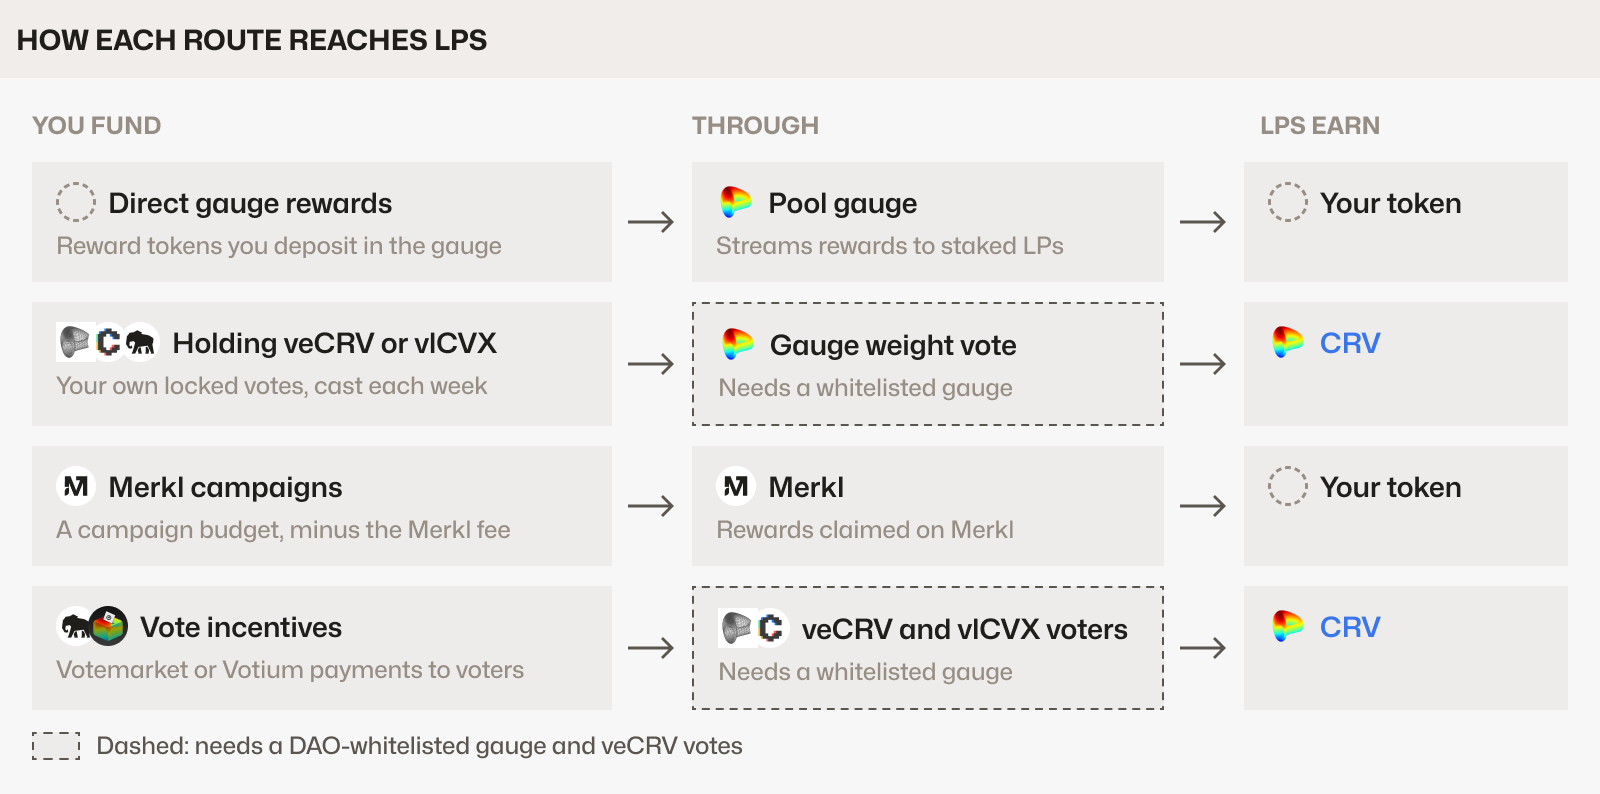
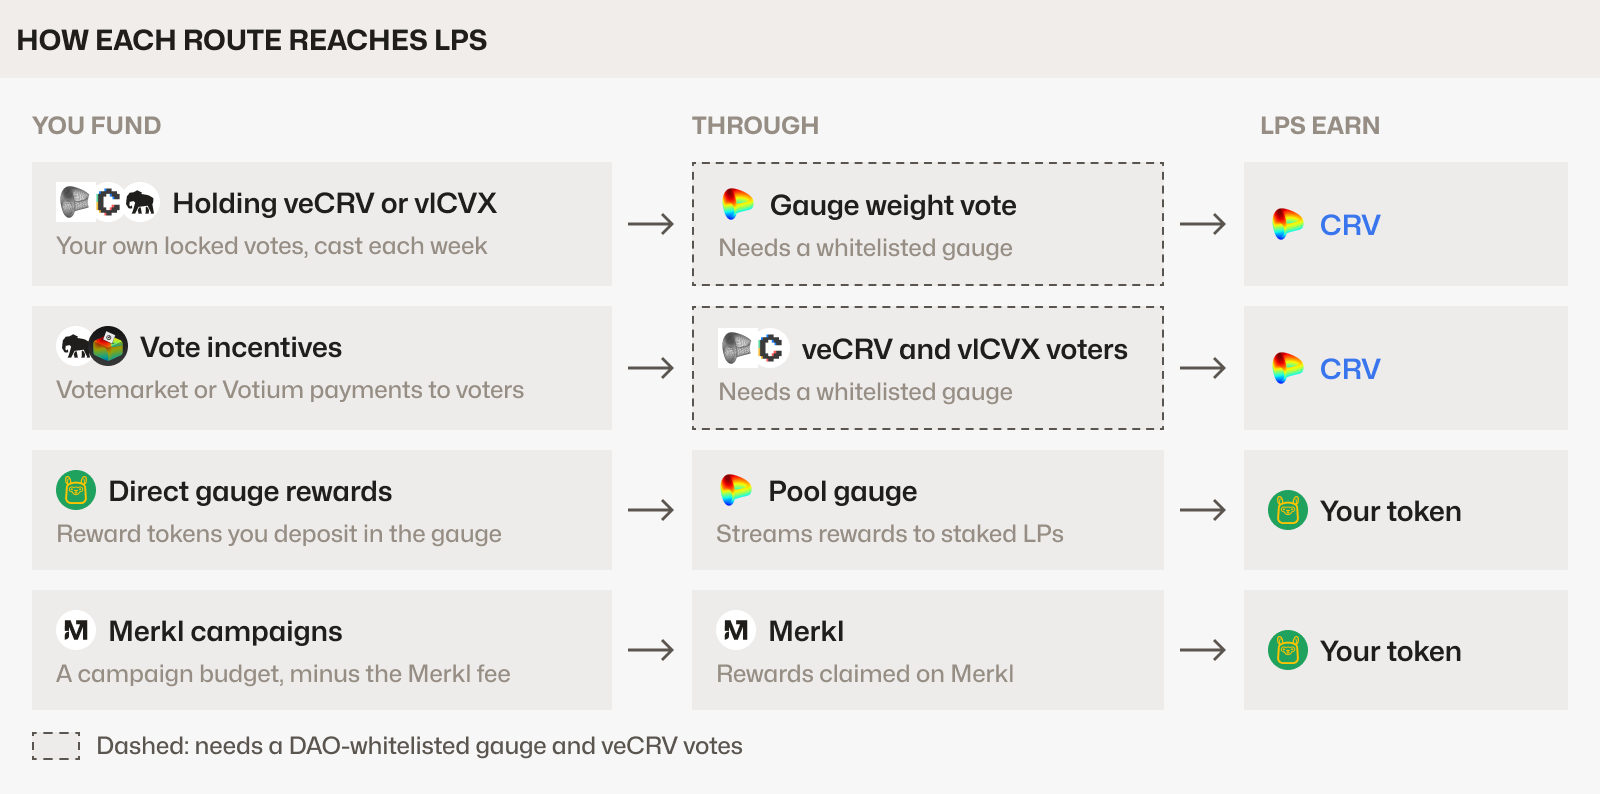
Group the routes diagram by what LPs earn
CRV routes first, then own-token routes; alt text follows the new order.

diff --git a/docs/protocol/gauge/incentive-routes.md b/docs/protocol/gauge/incentive-routes.md
@@ -19,7 +19,7 @@ CRV emissions take more. The Curve DAO must first whitelist the gauge in a 7-day
 | Merkl campaigns | No | No | You, in any standard token |
 | Vote incentives | Yes | Yes | Curve, in CRV; you pay the voters |
 
-![How each route reaches LPs: direct gauge rewards pay your token through the pool gauge; holding veCRV or vlCVX directs CRV through the gauge weight vote; Merkl campaigns pay your token through Merkl; vote incentives pay veCRV and vlCVX voters, who direct CRV. Routes through a gauge weight vote need a DAO-whitelisted gauge.](/img/protocol/gauge/incentive-routes.png)
+![How each route reaches LPs: holding veCRV or vlCVX directs CRV through the gauge weight vote; vote incentives pay veCRV and vlCVX voters, who direct CRV; direct gauge rewards pay your token through the pool gauge; Merkl campaigns pay your token through Merkl. Routes through a gauge weight vote need a DAO-whitelisted gauge.](/img/protocol/gauge/incentive-routes.png)
 
 ## Routes
 
